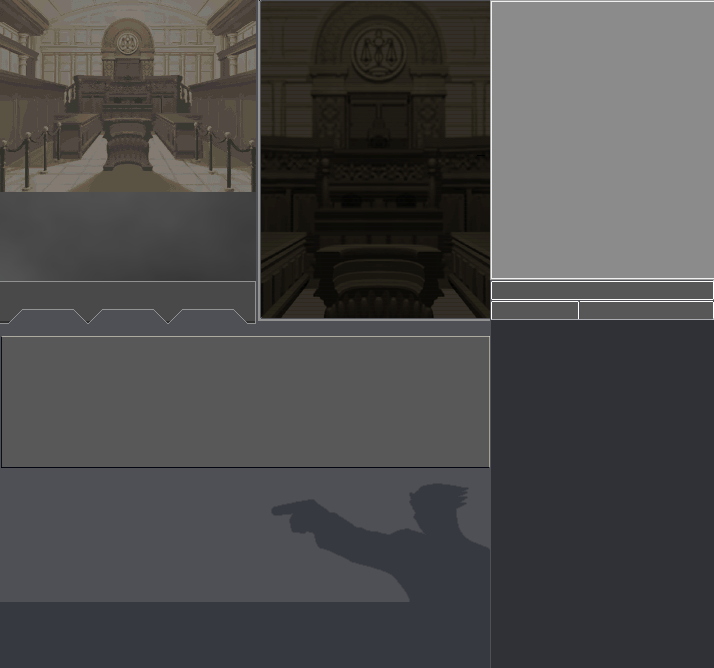
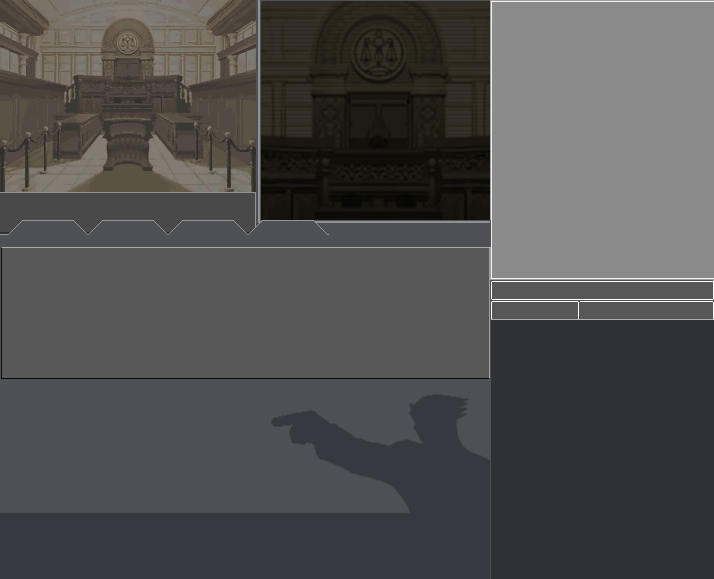
Replace default theme with the ace attorney layout (without the custom fonts) Default Theme is now named FullChar

diff --git a/FullChar/courtroom_stylesheets.css b/FullChar/courtroom_stylesheets.css
@@ -1,0 +1,36 @@
+QLabel {
+	color:white;
+	background-color:transparent;
+}
+
+QCheckBox {
+	color:white;
+	background-color:transparent;
+}
+
+QComboBox {
+	border: 1px solid rgba(255, 0, 255, 150);
+	background-color: darkgray;
+	color: black;
+	border-radius: 3px;
+	border-color: black
+}
+
+QAbstractItemView {
+	border: 0px solid darkgray;
+	background-color: darkgray;
+	color: black;
+	border-radius: 0px;
+	selection-background-color: darkgreen;
+}
+
+QListView {
+	color: black;
+	background-color:darkgray;
+	selection-background-color: darkgreen;
+}
+
+QLineEdit {
+	color:white;
+	background-color:dimgray;
+}
